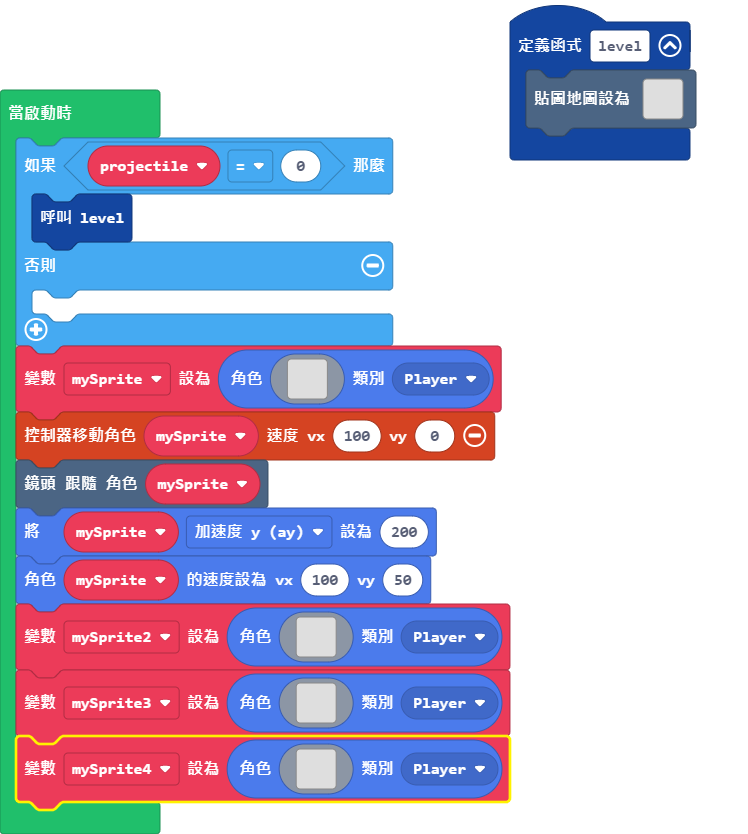
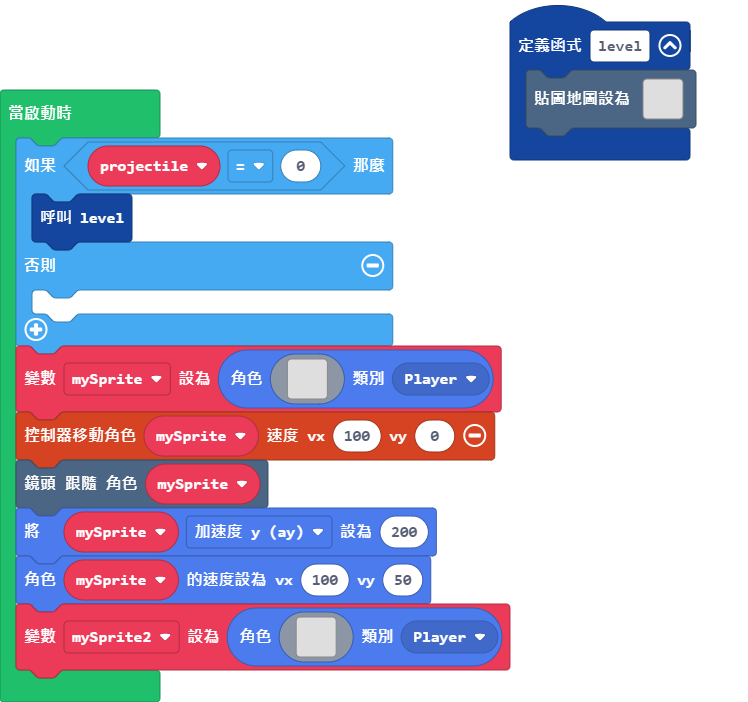
更新 main.blocks, main.ts

diff --git a/main.ts b/main.ts
@@ -47,39 +47,3 @@ let mySprite2 = sprites.create(img`
     . . . . . . . . . . . . . . . . 
     . . . . . . . . . . . . . . . . 
     `, SpriteKind.Player)
-let mySprite3 = sprites.create(img`
-    . . . . . . . . . . . . . . . . 
-    . . . . . . . . . . . . . . . . 
-    . . . . . . . . . . . . . . . . 
-    . . . . . . . . . . . . . . . . 
-    . . . . . . . . . . . . . . . . 
-    . . . . . . . . . . . . . . . . 
-    . . . . . . . . . . . . . . . . 
-    . . . . . . . . . . . . . . . . 
-    . . . . . . . . . . . . . . . . 
-    . . . . . . . . . . . . . . . . 
-    . . . . . . . . . . . . . . . . 
-    . . . . . . . . . . . . . . . . 
-    . . . . . . . . . . . . . . . . 
-    . . . . . . . . . . . . . . . . 
-    . . . . . . . . . . . . . . . . 
-    . . . . . . . . . . . . . . . . 
-    `, SpriteKind.Player)
-let mySprite4 = sprites.create(img`
-    . . . . . . . . . . . . . . . . 
-    . . . . . . . . . . . . . . . . 
-    . . . . . . . . . . . . . . . . 
-    . . . . . . . . . . . . . . . . 
-    . . . . . . . . . . . . . . . . 
-    . . . . . . . . . . . . . . . . 
-    . . . . . . . . . . . . . . . . 
-    . . . . . . . . . . . . . . . . 
-    . . . . . . . . . . . . . . . . 
-    . . . . . . . . . . . . . . . . 
-    . . . . . . . . . . . . . . . . 
-    . . . . . . . . . . . . . . . . 
-    . . . . . . . . . . . . . . . . 
-    . . . . . . . . . . . . . . . . 
-    . . . . . . . . . . . . . . . . 
-    . . . . . . . . . . . . . . . . 
-    `, SpriteKind.Player)
